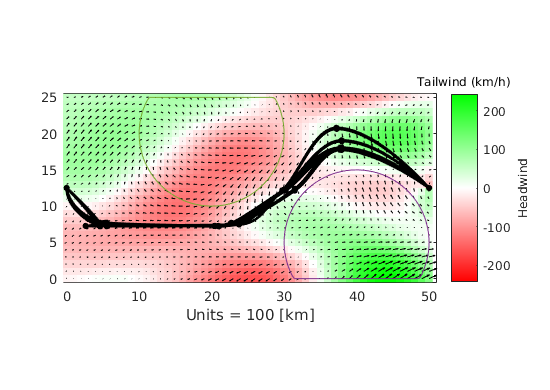
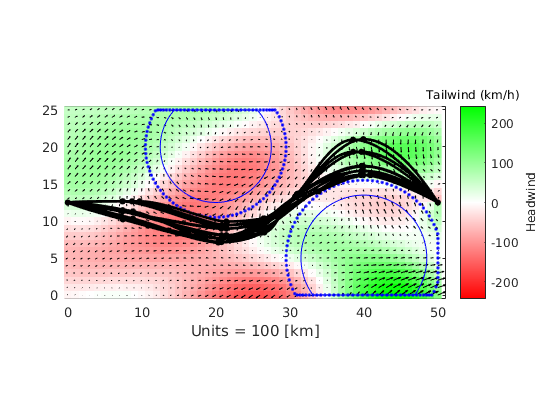
should have all figures now

Changed region(s): [[0.0618, 0.1846, 0.9273, 0.8308], [0.9273, 0.4, 0.9582, 0.5538]]

diff --git a/FlightPathOpt.m b/FlightPathOpt.m
@@ -81,7 +81,7 @@ h_path = plot(PathPoints(:,1),PathPoints(:,2),'k','linewidth',2);
 LineTime = getTimeFromPath(PathPoints,W_x,W_y,AirSpeed);
 fprintf('Travel Time: %d hours, %.1f minutes\n',floor(LineTime),rem(LineTime,1)*60);
 %% Add No Fly Zone
-xc = [40,20]; yc = [5,20]; radius = [7,7];  %Alter these params to get different no-fly zones
+xc = [40,20]; yc = [5,20]; radius = [8.5,7.5];  %Alter these params to get different no-fly zones
 
 
 for i = 1:length(xc)
@@ -133,8 +133,9 @@ else
 
     %Define Constraint Function
     %% Maximize The feasibility constraints for robustness.
-    problem_constraints = @(P,radius) min(flightConstraints(P,sizeX,sizeY,xc,yc,radius)); 
-    delta_P = maximumDeltaP([12.5,25],radius,radius+2,problem_constraints);
+    %problem_constraints = @(P,radius) min(flightConstraints(P,sizeX,sizeY,xc,yc,radius)); 
+    %delta_P = maximumDeltaP([12.5,25],radius,radius+2,problem_constraints);
+    delta_P = 2;
     radius = radius+delta_P;
     %%
     problem_constraints = @(P) flightConstraints(P,sizeX,sizeY,xc,yc,radius); 
